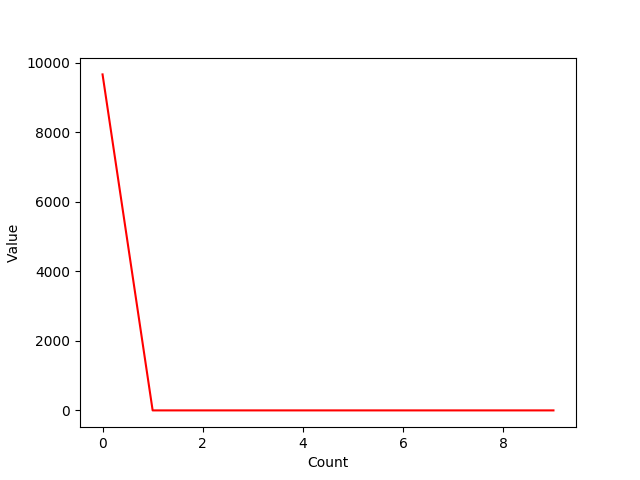
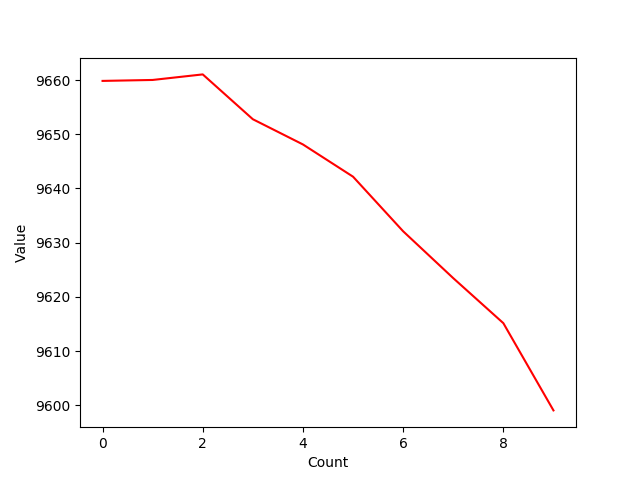
Automated Commision

diff --git a/service.py b/service.py
@@ -85,7 +85,7 @@ def sequential_prediction(stock, _range, model_name):
         matrix = sampling(matrix, 0, 2, STANDARD_SAMPLING_RANGE)
         timeseries.set_sampled_matrix(matrix)
         timeseries.normalize_timeseries()
-    
+
         prediction = 0.00
         result = predictor.predict(timeseries)
         for i in range(result.shape[0]):

diff --git a/financial.py b/financial.py
@@ -70,7 +70,7 @@ class TimeSeries:
     def set_dataset_label(self, label):
         self.dataset_label = label
     def set_raw_matrix(self, matrix):
-        self.raw, self.min, self.max = normalize(matrix)
+        self.raw = matrix
     def set_sampled_matrix(self, matrix):
         self.sampled = matrix
     def normalize_timeseries(self):
